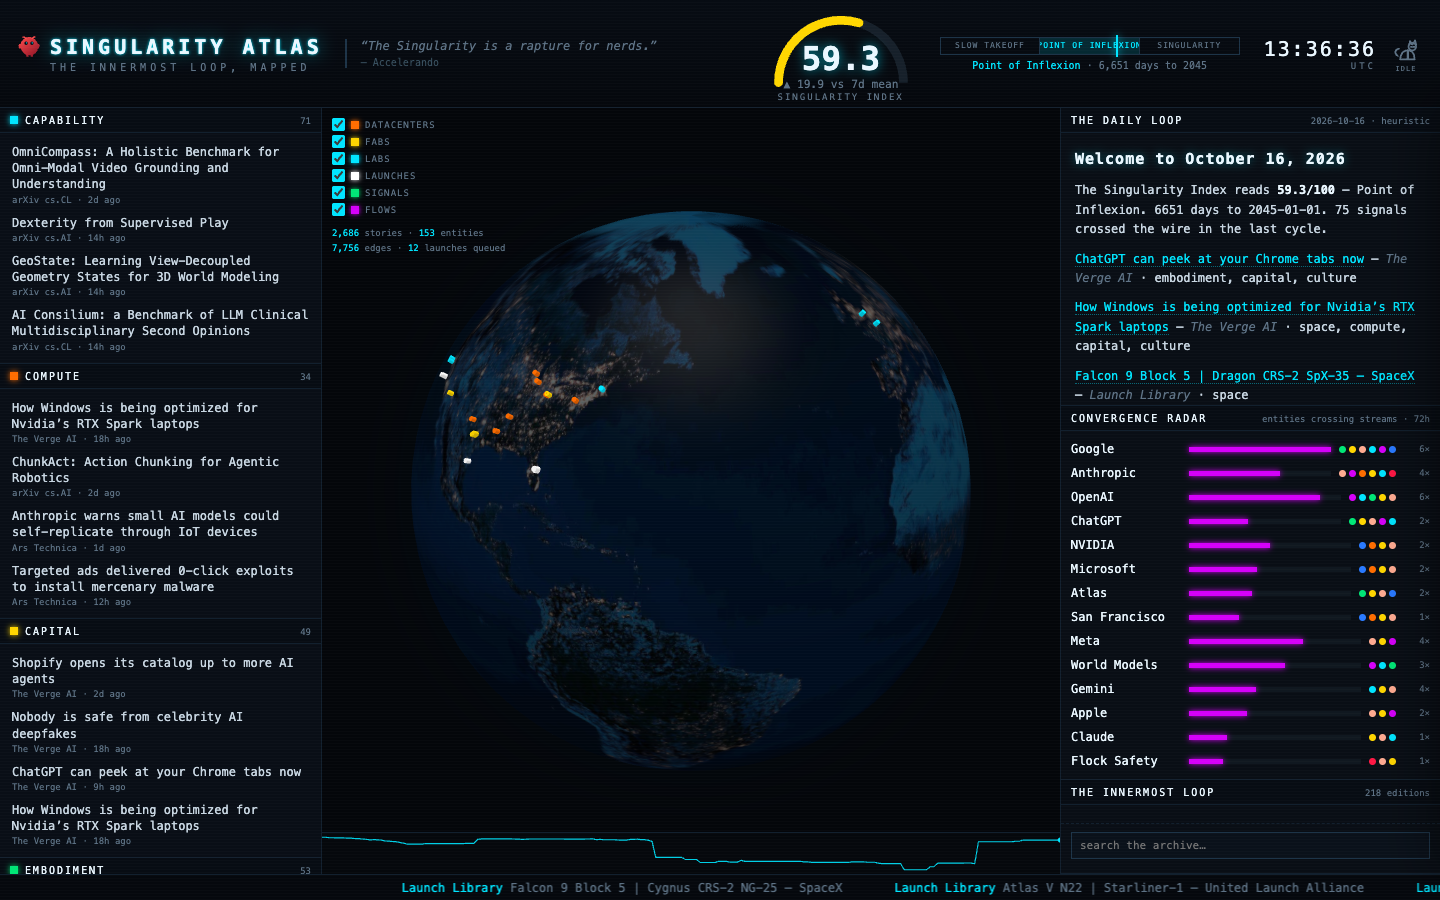
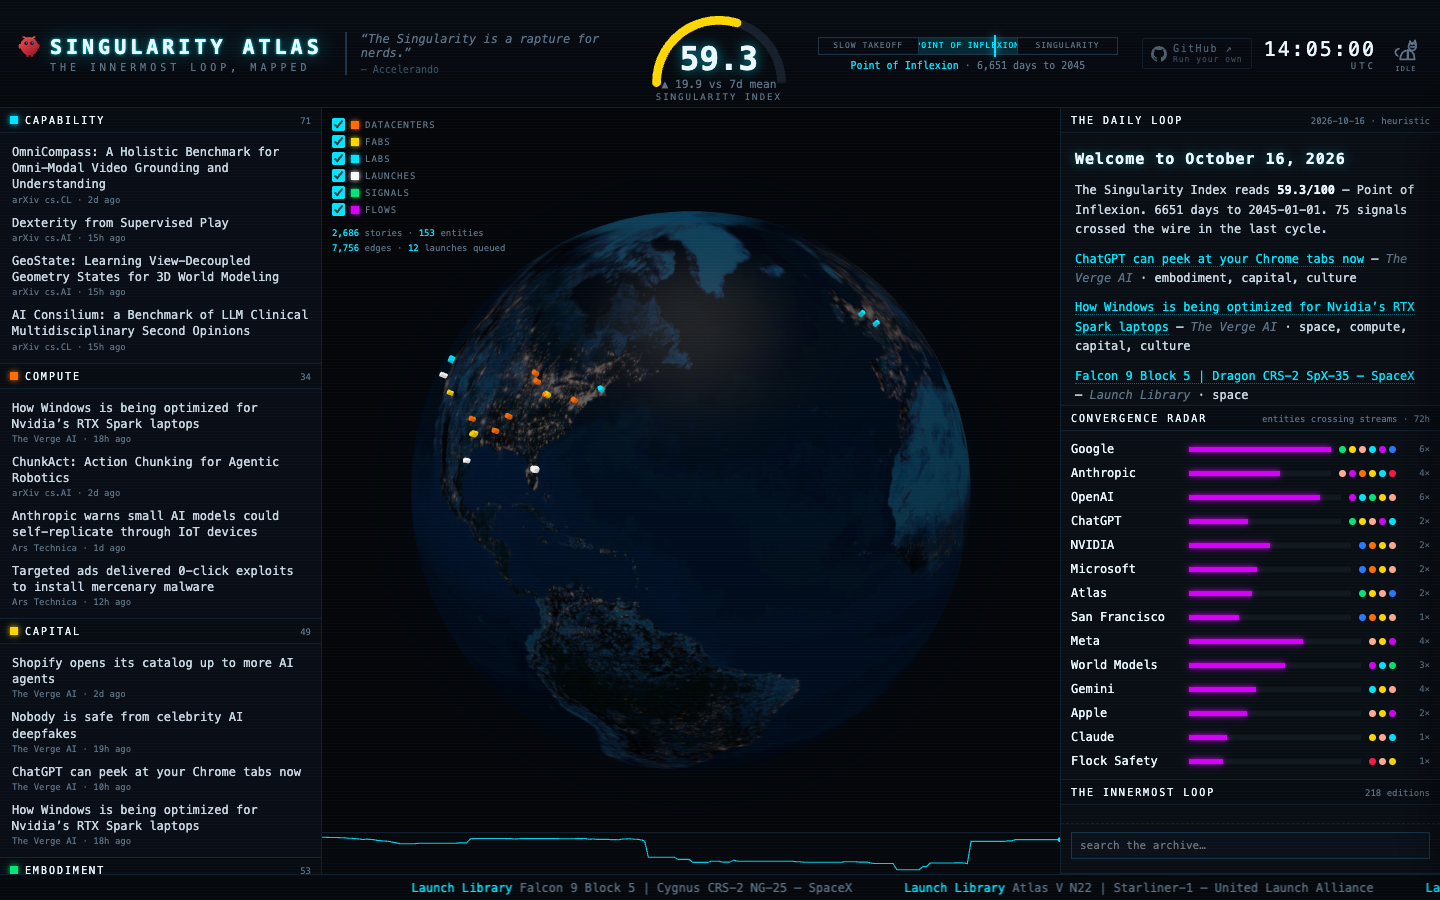
Publish 24h public snapshot 2026-10-16 (live atlas)

diff --git a/2026-10-16/index.html b/2026-10-16/index.html
@@ -46,7 +46,7 @@
     <div class="eyebrow">Public 24h snapshot · not the live globe</div>
     <h1>The Singularity Atlas</h1>
     <p class="lede">Yesterday's board. The live dashboard stays on the machine that runs it. This page is replaced at least daily.</p>
-    <p class="meta">Captured 2026-10-16 09:36 EDT · 75 stories in 24h · graph 2686 stories / 153 entities · brief heuristic</p>
+    <p class="meta">Captured 2026-10-16 10:04 EDT · 75 stories in 24h · graph 2686 stories / 153 entities · brief heuristic</p>
   </header>
   <main>
     <div class="hero">
@@ -76,13 +76,13 @@
       <aside>
         <h2>Crossing streams</h2>
         <ul><li><strong>Google</strong> <span class="muted">embodiment, capital, culture, capability, agency, space</span></li><li><strong>Anthropic</strong> <span class="muted">culture, agency, compute, capital, capability, security</span></li><li><strong>OpenAI</strong> <span class="muted">agency, capability, embodiment, capital, culture</span></li><li><strong>ChatGPT</strong> <span class="muted">embodiment, capital, culture, agency, capability</span></li><li><strong>NVIDIA</strong> <span class="muted">space, compute, capital, culture</span></li><li><strong>Microsoft</strong> <span class="muted">space, compute, capital, culture</span></li><li><strong>Atlas</strong> <span class="muted">embodiment, capital, culture, space</span></li><li><strong>San Francisco</strong> <span class="muted">space, compute, capital, culture</span></li><li><strong>Meta</strong> <span class="muted">culture, capital, agency</span></li><li><strong>World Models</strong> <span class="muted">agency, capability, embodiment</span></li><li><strong>Gemini</strong> <span class="muted">capability, capital, culture</span></li><li><strong>Apple</strong> <span class="muted">culture, capital, agency</span></li></ul>
-        <h2>Feeds 14/15</h2>
-        <ul><li class="ok"><code>verge-ai</code> 10 items</li><li class="ok"><code>arxiv-cs-lg</code> 12 items</li><li class="ok"><code>arxiv-cs-ai</code> 12 items</li><li class="ok"><code>launches</code> 20 items</li><li class="ok"><code>ars</code> 20 items</li><li class="ok"><code>arxiv-cs-cl</code> 12 items</li><li class="ok"><code>mit-tr-ai</code> 10 items</li><li class="ok"><code>interconnects</code> 20 items</li><li class="ok"><code>import-ai</code> 20 items</li><li class="ok"><code>openai</code> 25 items</li><li class="ok"><code>deepmind</code> 25 items</li><li class="fail"><code>venturebeat-ai</code> 0 items · temporarily unavailable</li><li class="ok"><code>arxiv-cs-ro</code> 12 items</li><li class="ok"><code>hn-ai</code> 71 items</li><li class="ok"><code>gdelt-ai</code> 40 items</li></ul>
+        <h2>Feeds 13/15</h2>
+        <ul><li class="ok"><code>verge-ai</code> 10 items</li><li class="ok"><code>arxiv-cs-lg</code> 12 items</li><li class="ok"><code>arxiv-cs-ai</code> 12 items</li><li class="ok"><code>launches</code> 20 items</li><li class="ok"><code>ars</code> 20 items</li><li class="ok"><code>arxiv-cs-cl</code> 12 items</li><li class="ok"><code>mit-tr-ai</code> 10 items</li><li class="ok"><code>interconnects</code> 20 items</li><li class="ok"><code>import-ai</code> 20 items</li><li class="ok"><code>openai</code> 25 items</li><li class="ok"><code>deepmind</code> 25 items</li><li class="fail"><code>venturebeat-ai</code> 0 items · temporarily unavailable</li><li class="ok"><code>arxiv-cs-ro</code> 12 items</li><li class="ok"><code>hn-ai</code> 71 items</li><li class="fail"><code>gdelt-ai</code> 0 items · temporarily unavailable</li></ul>
       </aside>
     </div>
   </main>
   <footer>
-    <p><a href="https://github.com/sw30labs/.github/wiki/singularity-atlas">Wiki</a> · <a href="https://github.com/sw30labs/singularity-atlas">Repo</a> · local live is <code>http://localhost:8055</code>. Code Apache-2.0. This snapshot is public feeds plus the on-machine brief. It does not ship the Innermost Loop corpus or <code>ref/</code>.</p>
+    <p><a href="https://github.com/sw30labs/singularity-atlas" target="_blank" rel="noopener noreferrer">GitHub ↗</a> · <a href="https://github.com/sw30labs/singularity-atlas#run-your-own" target="_blank" rel="noopener noreferrer">Run your own copy</a> · <a href="https://github.com/sw30labs/.github/wiki/singularity-atlas" target="_blank" rel="noopener noreferrer">Wiki</a> · Daily static snapshot; the live dashboard runs locally. Code Apache-2.0. This snapshot is public feeds plus the on-machine brief. It does not ship the Innermost Loop corpus or <code>ref/</code>.</p>
   </footer>
 </body>
 </html>

diff --git a/board/index.html b/board/index.html
@@ -46,7 +46,7 @@
     <div class="eyebrow">Public 24h snapshot · not the live globe</div>
     <h1>The Singularity Atlas</h1>
     <p class="lede">Yesterday's board. The live dashboard stays on the machine that runs it. This page is replaced at least daily.</p>
-    <p class="meta">Captured 2026-10-16 09:36 EDT · 75 stories in 24h · graph 2686 stories / 153 entities · brief heuristic</p>
+    <p class="meta">Captured 2026-10-16 10:04 EDT · 75 stories in 24h · graph 2686 stories / 153 entities · brief heuristic</p>
   </header>
   <main>
     <div class="hero">
@@ -76,13 +76,13 @@
       <aside>
         <h2>Crossing streams</h2>
         <ul><li><strong>Google</strong> <span class="muted">embodiment, capital, culture, capability, agency, space</span></li><li><strong>Anthropic</strong> <span class="muted">culture, agency, compute, capital, capability, security</span></li><li><strong>OpenAI</strong> <span class="muted">agency, capability, embodiment, capital, culture</span></li><li><strong>ChatGPT</strong> <span class="muted">embodiment, capital, culture, agency, capability</span></li><li><strong>NVIDIA</strong> <span class="muted">space, compute, capital, culture</span></li><li><strong>Microsoft</strong> <span class="muted">space, compute, capital, culture</span></li><li><strong>Atlas</strong> <span class="muted">embodiment, capital, culture, space</span></li><li><strong>San Francisco</strong> <span class="muted">space, compute, capital, culture</span></li><li><strong>Meta</strong> <span class="muted">culture, capital, agency</span></li><li><strong>World Models</strong> <span class="muted">agency, capability, embodiment</span></li><li><strong>Gemini</strong> <span class="muted">capability, capital, culture</span></li><li><strong>Apple</strong> <span class="muted">culture, capital, agency</span></li></ul>
-        <h2>Feeds 14/15</h2>
-        <ul><li class="ok"><code>verge-ai</code> 10 items</li><li class="ok"><code>arxiv-cs-lg</code> 12 items</li><li class="ok"><code>arxiv-cs-ai</code> 12 items</li><li class="ok"><code>launches</code> 20 items</li><li class="ok"><code>ars</code> 20 items</li><li class="ok"><code>arxiv-cs-cl</code> 12 items</li><li class="ok"><code>mit-tr-ai</code> 10 items</li><li class="ok"><code>interconnects</code> 20 items</li><li class="ok"><code>import-ai</code> 20 items</li><li class="ok"><code>openai</code> 25 items</li><li class="ok"><code>deepmind</code> 25 items</li><li class="fail"><code>venturebeat-ai</code> 0 items · temporarily unavailable</li><li class="ok"><code>arxiv-cs-ro</code> 12 items</li><li class="ok"><code>hn-ai</code> 71 items</li><li class="ok"><code>gdelt-ai</code> 40 items</li></ul>
+        <h2>Feeds 13/15</h2>
+        <ul><li class="ok"><code>verge-ai</code> 10 items</li><li class="ok"><code>arxiv-cs-lg</code> 12 items</li><li class="ok"><code>arxiv-cs-ai</code> 12 items</li><li class="ok"><code>launches</code> 20 items</li><li class="ok"><code>ars</code> 20 items</li><li class="ok"><code>arxiv-cs-cl</code> 12 items</li><li class="ok"><code>mit-tr-ai</code> 10 items</li><li class="ok"><code>interconnects</code> 20 items</li><li class="ok"><code>import-ai</code> 20 items</li><li class="ok"><code>openai</code> 25 items</li><li class="ok"><code>deepmind</code> 25 items</li><li class="fail"><code>venturebeat-ai</code> 0 items · temporarily unavailable</li><li class="ok"><code>arxiv-cs-ro</code> 12 items</li><li class="ok"><code>hn-ai</code> 71 items</li><li class="fail"><code>gdelt-ai</code> 0 items · temporarily unavailable</li></ul>
       </aside>
     </div>
   </main>
   <footer>
-    <p><a href="https://github.com/sw30labs/.github/wiki/singularity-atlas">Wiki</a> · <a href="https://github.com/sw30labs/singularity-atlas">Repo</a> · local live is <code>http://localhost:8055</code>. Code Apache-2.0. This snapshot is public feeds plus the on-machine brief. It does not ship the Innermost Loop corpus or <code>ref/</code>.</p>
+    <p><a href="https://github.com/sw30labs/singularity-atlas" target="_blank" rel="noopener noreferrer">GitHub ↗</a> · <a href="https://github.com/sw30labs/singularity-atlas#run-your-own" target="_blank" rel="noopener noreferrer">Run your own copy</a> · <a href="https://github.com/sw30labs/.github/wiki/singularity-atlas" target="_blank" rel="noopener noreferrer">Wiki</a> · Daily static snapshot; the live dashboard runs locally. Code Apache-2.0. This snapshot is public feeds plus the on-machine brief. It does not ship the Innermost Loop corpus or <code>ref/</code>.</p>
   </footer>
 </body>
 </html>

diff --git a/style.css b/style.css
@@ -109,6 +109,12 @@ body::after {
 .clock-block { display: flex; align-items: center; gap: 12px; text-align: right; }
 .clock { font-size: 20px; color: #eaf7ff; letter-spacing: 2px; }
 .clock-label { color: var(--text-dim); font-size: 9px; letter-spacing: 3px; }
+.gh-link { display: flex; align-items: center; gap: 6px; padding: 4px 8px; border: 1px solid var(--edge); border-radius: 3px;
+  color: var(--text-dim); text-decoration: none; font-size: 10px; letter-spacing: 1.5px; line-height: 1.15; opacity: .8; }
+.gh-link:hover, .gh-link:focus-visible { color: var(--cyan); border-color: var(--cyan); opacity: 1; outline: none; }
+.gh-link svg { width: 16px; height: 16px; flex: none; }
+.gh-text { display: flex; flex-direction: column; text-align: left; }
+.gh-text small { font-size: 8px; letter-spacing: 1px; opacity: .75; }
 
 .aineko {
   width: 36px; color: var(--text-dim); text-align: center;
@@ -339,4 +345,6 @@ body.demo #ticker { animation-duration: 48s; }
   .epoch-seg span { font-size: 7px; letter-spacing: 0; }
   #center { height: 52vh; min-height: 300px; }
   .layer-toggles { gap: 2px; }
+  .gh-text small { display: none; }
+  .gh-link { min-height: 32px; padding: 4px 6px; }
 }

diff --git a/index.html b/index.html
@@ -63,6 +63,10 @@
     </div>
 
     <div class="clock-block">
+      <a class="gh-link" href="https://github.com/sw30labs/singularity-atlas#run-your-own" target="_blank" rel="noopener noreferrer" title="Source on GitHub — run or tweak your own copy" aria-label="GitHub: run your own copy (opens in a new tab)">
+        <svg viewBox="0 0 16 16" aria-hidden="true"><path fill="currentColor" d="M8 0C3.58 0 0 3.58 0 8c0 3.54 2.29 6.53 5.47 7.59.4.07.55-.17.55-.38 0-.19-.01-.82-.01-1.49-2.01.37-2.53-.49-2.69-.94-.09-.23-.48-.94-.82-1.13-.28-.15-.68-.52-.01-.53.63-.01 1.08.58 1.23.82.72 1.21 1.87.87 2.33.66.07-.52.28-.87.51-1.07-1.78-.2-3.64-.89-3.64-3.95 0-.87.31-1.59.82-2.15-.08-.2-.36-1.02.08-2.12 0 0 .67-.21 2.2.82.64-.18 1.32-.27 2-.27.68 0 1.36.09 2 .27 1.53-1.04 2.2-.82 2.2-.82.44 1.1.16 1.92.08 2.12.51.56.82 1.27.82 2.15 0 3.07-1.87 3.75-3.65 3.95.29.25.54.73.54 1.48 0 1.07-.01 1.93-.01 2.2 0 .21.15.46.55.38A8.013 8.013 0 0016 8c0-4.42-3.58-8-8-8z"/></svg>
+        <span class="gh-text">GitHub ↗<small>Run your own</small></span>
+      </a>
       <div>
         <div id="clock" class="clock">--:--:--</div>
         <div class="clock-label">UTC</div>

diff --git a/archive/index.html b/archive/index.html
@@ -9,4 +9,6 @@ a{color:#7cc4ff}li{margin:.3rem 0}.si{color:#999;font-family:ui-monospace,monosp
 <li><a href="../2026-10-12/">2026-10-12</a> <span class="si">SI 23.8</span></li>
 <li><a href="../2026-10-10/">2026-10-10</a> <span class="si">SI 33.1</span></li>
 <li><a href="../2026-10-09/">2026-10-09</a> <span class="si">SI 54.4</span></li>
-</ul></body></html>
+</ul>
+<footer style="margin-top:2rem;color:#999;font-size:.85rem"><a href="https://github.com/sw30labs/singularity-atlas" target="_blank" rel="noopener noreferrer">GitHub ↗</a> · <a href="https://github.com/sw30labs/singularity-atlas#run-your-own" target="_blank" rel="noopener noreferrer">Run your own copy</a> (code Apache-2.0; bring your own corpus)</footer>
+</body></html>
